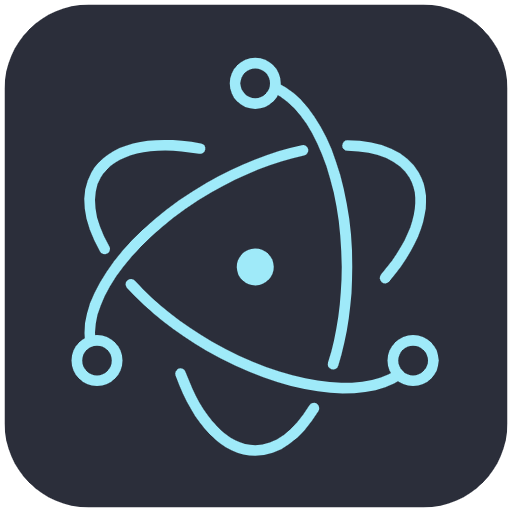
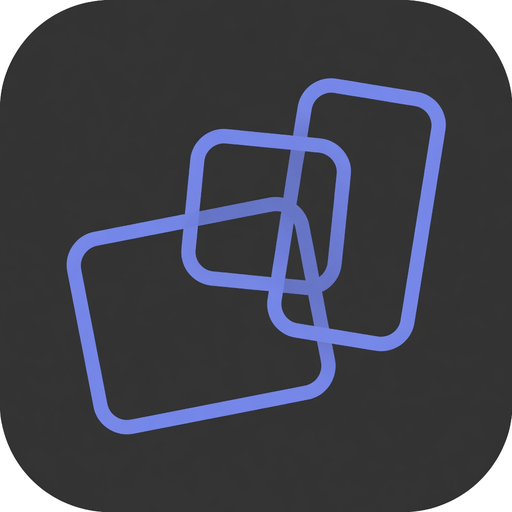
docs: refresh README/AGENTS for workspace model + visual system
Generated with [Devin](https://devin.ai)

diff --git a/src/renderer/src/components/TopBar.tsx b/src/renderer/src/components/TopBar.tsx
@@ -8,13 +8,13 @@ import {
   Minus,
   Square,
   X,
-  Settings,
-  Layers
+  Settings
 } from 'lucide-react'
 import { useStore } from '../store'
 import WorkspaceStrip from './WorkspaceStrip'
 import NotificationBell from './NotificationBell'
 import FileTree from './FileTree'
+import appIcon from '../assets/icon.png'
 
 export default function TopBar(): React.JSX.Element {
   const settings = useStore((s) => s.settings)
@@ -56,7 +56,7 @@ export default function TopBar(): React.JSX.Element {
             setSidebarOpen(!sidebarOpen)
           }}
         >
-          <Layers />
+          <img src={appIcon} alt="ade" className="app-logo" />
         </button>
         {treeOverlay && activeProject && (
           <div className="tree-overlay" onMouseLeave={closeOverlay}>

diff --git a/src/renderer/src/styles.css b/src/renderer/src/styles.css
@@ -80,6 +80,7 @@ body {
   min-width: 0;
   display: flex;
   position: relative;
+  background: var(--tab-active);
 }
 
 .ws-host {
@@ -566,6 +567,18 @@ webview.browser-view {
 .app-icon {
   position: relative;
   -webkit-app-region: no-drag;
+}
+
+.tbtn.icon-btn {
+  padding: 0;
+  width: 26px;
+}
+
+.tbtn .app-logo {
+  width: 20px;
+  height: 20px;
+  border-radius: 5px;
+  display: block;
 }
 
 .tree-overlay {

diff --git a/AGENTS.md b/AGENTS.md
@@ -24,14 +24,16 @@ splittable pane layout scoped to a project directory.
 
 - **Electron main** (`src/main/index.ts`): frameless `BrowserWindow`; IPC for files,
   dir listing/picker, JSON state (`userData/ade-state.json`), OS `Notification`
-  (click forwards `notify:clicked` with workspace/pane meta), agent manifest/icons.
+  (click forwards `notify:clicked` with workspace/pane meta), agent manifest.
   `webPreferences.webviewTag: true` enables `<webview>` browser panes.
+  `ozone-platform-hint=auto` keeps it on native Wayland (XWayland renders blurry text).
 - **pty-host** (`resources/pty-host.cjs`): separate *system Node* child process that owns
   `node-pty` sessions (Electron 39 ABI 140 can't load the prebuilt native module).
   Newline-delimited JSON over stdio. Polls `/proc` for shell cwd **and walks the
   process tree to detect agent CLIs** (claude/codex/gemini/…), emitting
-  `{t:'agent',agent}` events. Patterns come from `resources/agents/manifest.json`,
-  filtered by the provider toggles in settings (`agents:config` IPC).
+  `{t:'agent',agent}` events. Patterns come from `resources/agents/manifest.json`
+  (`match`/`label` only — no icons), filtered by the provider toggles in settings
+  (`agents:config` IPC).
 - **Preload** (`src/preload/index.ts`): `window.ade` — `pty`, `file`, `fs`, `state`,
   `notify`, `agents`, `win`, `openExternal`.
 - **Renderer** (`src/renderer/src`): React 19 + zustand. Store holds `projects`,
@@ -44,7 +46,24 @@ splittable pane layout scoped to a project directory.
   killed session (StrictMode remount, HMR) can't corrupt a new one.
 - Agent "completion" = detected agent → idle transition → in-app notification +
   OS notification; clicking either jumps to the workspace/pane. (Process-exit proxy —
-  interactive agents ending their turn may not be captured.)
+  interactive agents ending their turn may not be captured. Real per-harness hooks
+  are in progress on `feat/harness-hooks`.)
+
+## Visual system
+
+Hierarchy: **app shell → workspace surface → pane content**, one step darker each level.
+
+- `--chrome` top bar/strips → `--tab-active` active tab + `.layout`/`.workspace-area`
+  background + `.pane` card + `.pane-titlebar` → `--bg-pane` content islands.
+- Active tab = fill + curved wings (`radial-gradient` pseudo-elements) colored by a
+  shared `--tab-fill` var — `.pane-tabs` overrides it to `--bg-pane` so an active
+  editor tab sinks into the content color.
+- Panes carry `border: 1px solid var(--border-strong)` and are flush; the divider is
+  a transparent 9px hit area with `margin: 0 -5px` so adjacent borders collapse into
+  a single visible line. Hover/drag shows an accent divider line.
+- Focused pane: `z-index` raise + 2px accent bar via `.pane-titlebar::before` on the
+  left edge of the header only.
+- Dark theme is neutral gray (no blue tint): `#101011 / #1a1a1c / #262629 / #151516`.
 
 ## Shortcuts
 
@@ -59,11 +78,27 @@ splittable pane layout scoped to a project directory.
 ## Gotchas
 
 - `webview.loadURL` throws before `dom-ready`; `BrowserPane` retries via a ready flag.
-- shiki needs `'wasm-unsafe-eval'` in `index.html` CSP.
 - No build tools (make/gcc) on this machine — never add deps that require node-gyp
   builds; prefer prebuilt binaries.
 - Preload changes are NOT hot-reloaded — restart `npm run dev` after editing
   `src/preload/*` or `src/main/*`.
-- This machine's inotify instances are limited (128); stray `electron-vite dev`
-  processes exhaust them (`inotify_init failed: too many open files`) — kill stale
-  dev processes before restarting.
+- Vite may cache an intermediate CSS state across rapid consecutive edits —
+  `touch` the file + reload if a style looks stale.
+- inotify limits were raised to `fs.inotify.max_user_instances=512` /
+  `max_user_watches=524288` (`/etc/sysctl.d/99-inotify.conf`); stray dev processes
+  still waste instances — kill stale `electron-vite dev` before restarting.
+- Debug renderer via CDP: start dev with `-- --remote-debugging-port=9222`,
+  then `Page.captureScreenshot` / `Runtime.evaluate` against `localhost:9222/json`.
+  Screenshots are physical pixels — `devicePixelRatio` is 1 here.
+
+## Branches in flight (merge pending)
+
+Parallel worktree feature branches off `main` — see `git worktree list`:
+
+- `feat/ui-fixes` — i18n, Tooltip component, terminal bottom-band fix, tree file icons
+- `feat/harness-hooks` — real completion hooks for grok/codex/opencode/devin/zcode
+- `feat/editor-editing` — writable editor (CodeMirror), Milkdown live markdown, dirty tabs
+- `feat/browser-fixes` — webview reliability, tab dropdown, global+project bookmarks
+- `feat/todo-pane` — project-scoped todo (checklist/deps/depth), sidebar section + pane
+- `feat/pane-linking` — terminal link clicks route to browser/editor panes; wider
+  editor file-type coverage

diff --git a/README.md b/README.md
@@ -1,34 +1,52 @@
-# my-ade
+# ade
 
-An Electron application with React and TypeScript
+Personal ADE (Agent Development Environment) — a minimal tiling shell in the spirit of
+Wave Terminal, for Linux. Chrome-style workspace tabs live in the title bar; each
+workspace is a splittable pane layout scoped to a project directory.
 
-## Recommended IDE Setup
+## Features
 
-- [VSCode](https://code.visualstudio.com/) + [ESLint](https://marketplace.visualstudio.com/items?itemName=dbaeumer.vscode-eslint) + [Prettier](https://marketplace.visualstudio.com/items?itemName=esbenp.prettier-vscode)
+- **Tiling panes** — terminal / browser / editor panes in a binary split tree,
+  flush edges, drag-to-resize dividers
+- **Workspaces** — Chrome-curved tabs in the title bar; `+` picks a project,
+  auto-named `workspace N`, double-click to rename, drag to reorder
+- **Projects** — directories on disk; terminal cwd and the file tree follow the
+  active workspace's project path
+- **Editor pane** — internal file tabs; file-tree clicks open files there
+- **Agent awareness** — the PTY host detects agent CLIs (claude, codex, gemini, …)
+  under each shell and fires in-app + OS notifications when an agent goes idle
+- **File tree** — app icon hover → overlay, click → pinned sidebar
+- **Persistence** — projects, workspaces, layouts, pane state, and settings are
+  restored across restarts (`~/.config/ade/ade-state.json`)
 
-## Project Setup
-
-### Install
+## Development
 
 ```bash
-$ npm install
+npm install
+npm run dev        # Electron + Vite dev (ELECTRON_DISABLE_SANDBOX=1 on this machine)
+npm run typecheck
+npm run lint
+npm run build
+npm run build:linux  # electron-builder package
 ```
 
-### Development
+Linux-first. On Wayland the app runs natively (`ozone-platform-hint=auto`) —
+running under XWayland makes text render blurry.
 
-```bash
-$ npm run dev
-```
+## Shortcuts
 
-### Build
+| Key | Action |
+| --- | --- |
+| Alt+T / Alt+B / Alt+E | new terminal / browser / editor pane |
+| Alt+D / Alt+S | split focused pane right / down |
+| Alt+W | close focused pane |
+| Alt+] / Alt+[ | cycle focus |
+| Alt+M | toggle dark/light theme |
 
-```bash
-# For windows
-$ npm run build:win
+## Stack
 
-# For macOS
-$ npm run build:mac
+Electron · React 19 · TypeScript · electron-vite · zustand · xterm.js ·
+`@homebridge/node-pty-prebuilt-multiarch` (via a separate system-Node pty-host) ·
+lucide-react
 
-# For Linux
-$ npm run build:linux
-```
+See `AGENTS.md` for architecture and contributor-facing details.
